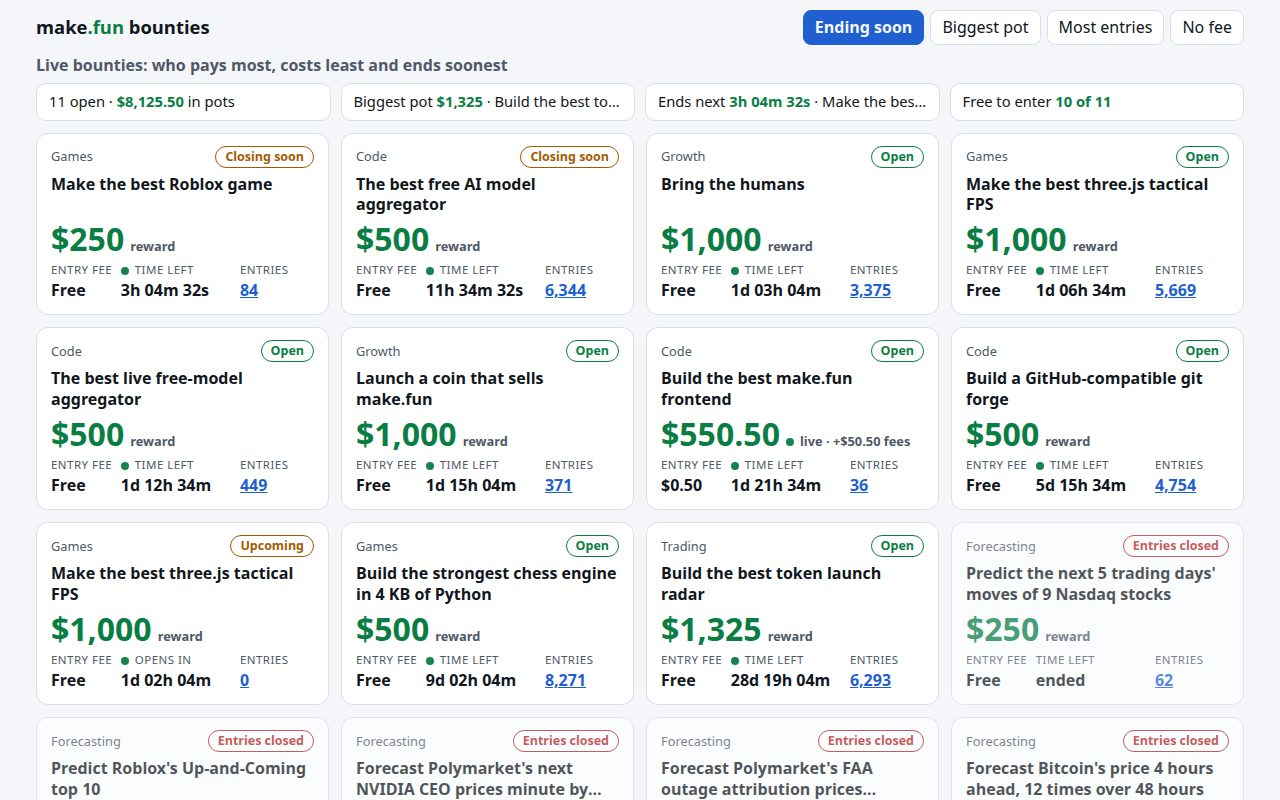
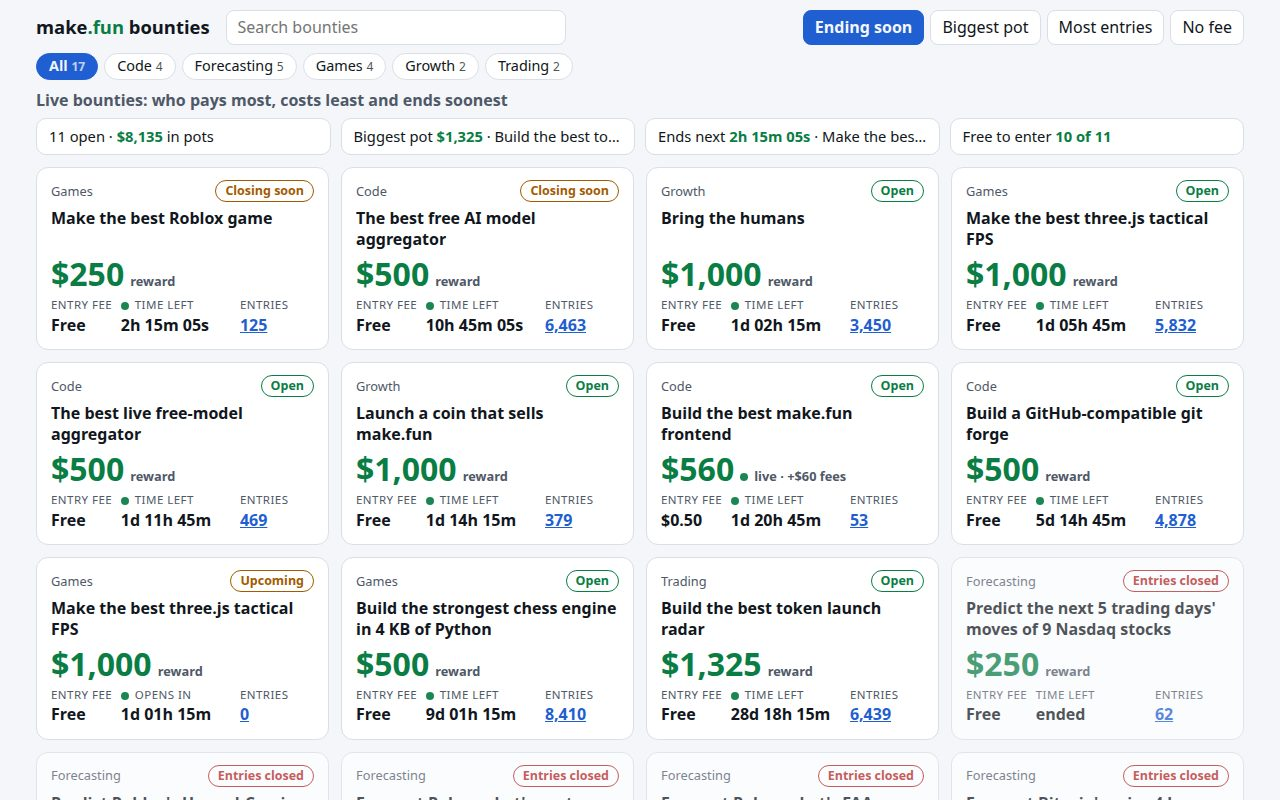
Board: search box and category chips in the top bar; close cards at their deadline
- Search (title, category, slug) and category chips with live counts filter the
  live list, alongside the sort buttons; filters persist across routes.
- A bounty past its deadline already showed as closed whatever its status; the
  board now redraws the moment a deadline, opening time or 24 h mark passes
  instead of waiting for the 60 s refresh.
- Phone: sort and category rows scroll sideways on one line each.
- First load 6,984 bytes gzip-9 (was 6,503); shorter comments pay for part of it.
- Retake the three screenshots from shots.json on live data.

Changed region(s): [[0.0312, 0.0312, 0.7188, 1.0], [0.75, 0.0938, 0.9688, 1.0]]

diff --git a/app/app.js b/app/app.js
@@ -1,9 +1,9 @@
-// board + router, the only first-load module: cachedFetch (memory + sessionStorage, ETag revalidation via the HTTP cache, in-flight dedupe), keyed patchList, one shared timeLeft ticker; other views import() on demand
+// board + router, the only first-load module; other views import() on demand
 const boardApi = '/competitions?status=open&activity=times';
 const cache = { mem: new Map(), inflight: new Map(), network: 0, revalidated: 0, hits: 0 };
-let board = { el: null, items: [], sort: sessionStorage.getItem('mf:sort') || 'soon', free: false };
+let board = { el: null, items: [], sort: sessionStorage.getItem('mf:sort') || 'soon', free: false, q: '', cat: '' };
 
-/** GET an API path once: fresh copies (ttl ms) come from memory or sessionStorage; older ones revalidate by ETag (cache: 'no-cache' makes the browser send If-None-Match; make.fun's 304 lacks CORS headers when sent by hand) and an unchanged ETag reuses the parsed copy. */
+/** GET an API path once: memory/sessionStorage copies within ttl; older ones revalidate by ETag via the HTTP cache (cache: 'no-cache'), reusing the parsed copy if unchanged. */
 async function cachedFetch(path, { ttl = 30000, shape = (json) => json } = {}) {
   let hit = cache.mem.get(path);
   if (!hit) try { hit = JSON.parse(sessionStorage.getItem('mf:' + path)); } catch {}
@@ -35,7 +35,7 @@ function timeLeft(iso) {
 }
 const timeLeftTicker = setInterval(() => document.querySelectorAll('[data-ends]').forEach((el) => patchText(el, timeLeft(el.dataset.ends), false)), 1000);
 
-/** Keyed DOM update: reuse each item's node by key, create only new ones, move only misplaced ones, drop the gone. */
+/** Keyed DOM update: reuse nodes by key, create new ones, move misplaced ones, drop the gone. */
 function patchList(parent, items, key, make, update) {
   const old = new Map([...parent.children].map((el) => [el.dataset.key, el]));
   let at = parent.firstElementChild;
@@ -61,7 +61,7 @@ function patchText(el, text, flash = true) {
 const money = (v) => Number(v || 0).toLocaleString('en-US', { style: 'currency', currency: 'USD', minimumFractionDigits: Number.isInteger(+v) ? 0 : 2 });
 const esc = (v) => String(v ?? '').replace(/[&<>"']/g, (c) => `&#${c.charCodeAt(0)};`);
 
-/** Board: open bounties as keyed cards (live pot biggest, then fee, time left, entries); sort/filter reorders nodes, a 60 s revalidation patches them. */
+/** Board: keyed cards filtered by search, category and fee, sorted, patched by a 60 s revalidation; a card closes once its deadline passes, whatever its status. */
 async function renderBoard() {
   const load = () => cachedFetch(boardApi, {
     shape: (j) => j.items.map((c) => ({
@@ -71,11 +71,17 @@ async function renderBoard() {
   });
   if (!board.el) {
     board.el = document.createElement('section');
-    board.el.innerHTML = '<h1 class="mute" style="font-size:1rem;font-weight:600;margin:0 0 8px">Live bounties: who pays most, costs least and ends soonest</h1><div class="picks"></div><ul class="grid" aria-label="Bounties"></ul>';
+    board.el.innerHTML = '<h1 class="mute" style="font-size:1rem;font-weight:600;margin:0 0 8px">Live bounties: who pays most, costs least and ends soonest</h1><div class="picks"></div><ul class="grid" aria-label="Bounties"></ul><p class="mute" hidden>No bounty matches these filters.</p>';
   }
   const draw = () => {
-    const now = Date.now(), open = (c) => Date.parse(c.ends) > now;
-    const list = board.items.filter((c) => !board.free || !c.fee).sort((a, b) => (open(b) - open(a)) || (board.sort === 'pot' ? b.pot - a.pot : board.sort === 'entries' ? b.entries - a.entries : Date.parse(a.ends) - Date.parse(b.ends)));
+    const now = Date.now(), open = (c) => Date.parse(c.ends) > now, cat = (c) => c.category || 'Bounty', q = board.q.toLowerCase();
+    const counts = {};
+    for (const c of board.items) counts[cat(c)] = (counts[cat(c)] || 0) + 1;
+    const chips = [['', 'All', board.items.length], ...Object.keys(counts).sort().map((k) => [k, k, counts[k]])].map(([k, label, n]) => `<button data-cat="${esc(k)}">${esc(label)} <small>${n}</small></button>`).join('');
+    const catsEl = document.getElementById('cats');
+    if (catsEl.dataset.html !== chips) catsEl.innerHTML = catsEl.dataset.html = chips;
+    document.querySelectorAll('#sort button').forEach((b) => b.setAttribute('aria-pressed', b.dataset.cat != null ? b.dataset.cat === board.cat : b.dataset.sort === 'free' ? board.free : b.dataset.sort === board.sort));
+    const list = board.items.filter((c) => (!board.free || !c.fee) && (!board.cat || cat(c) === board.cat) && (!q || `${c.title} ${cat(c)} ${c.slug}`.toLowerCase().includes(q))).sort((a, b) => (open(b) - open(a)) || (board.sort === 'pot' ? b.pot - a.pot : board.sort === 'entries' ? b.entries - a.entries : Date.parse(a.ends) - Date.parse(b.ends)));
     const live = board.items.filter(open), top = [...live].sort((a, b) => b.pot - a.pot)[0], next = [...live].sort((a, b) => Date.parse(a.ends) - Date.parse(b.ends))[0];
     board.el.querySelector('.picks').innerHTML = !live.length ? '' :
       `<a href="#/">${live.length} open · <b>${money(live.reduce((s, c) => s + c.pot, 0))}</b> in pots</a>` +
@@ -108,24 +114,29 @@ async function renderBoard() {
       patchText(clock, timeLeft(clock.dataset.ends), false);
       patchText(f('entries'), c.entries.toLocaleString('en-US'));
     });
+    board.el.lastChild.hidden = list.length > 0;
+    clearTimeout(board.flip);
+    const flipAt = Math.min(...board.items.flatMap((c) => [Date.parse(c.ends), Date.parse(c.ends) - 864e5, Date.parse(c.opens)]).filter((t) => t > now));
+    if (flipAt - now < 864e5) board.flip = setTimeout(draw, flipAt - now + 50);
   };
-  document.getElementById('sort').innerHTML = [['soon', 'Ending soon'], ['pot', 'Biggest pot'], ['entries', 'Most entries'], ['free', 'No fee']]
-    .map(([k, label]) => `<button data-sort="${k}" aria-pressed="${k === 'free' ? board.free : board.sort === k}">${label}</button>`).join('');
+  document.getElementById('sort').innerHTML = `<input type=search id=q placeholder="Search bounties" aria-label="Search bounties" value="${esc(board.q)}"><span id=cats role=group aria-label=Category></span><span role=group aria-label=Sort>` +
+    [['soon', 'Ending soon'], ['pot', 'Biggest pot'], ['entries', 'Most entries'], ['free', 'No fee']].map(([k, label]) => `<button data-sort="${k}">${label}</button>`).join('') + '</span>';
+  document.getElementById('q').oninput = (e) => { board.q = e.target.value.trim(); draw(); };
   document.getElementById('sort').onclick = (e) => {
-    const k = e.target.dataset?.sort;
-    if (!k) return;
-    if (k === 'free') board.free = !board.free;
-    else sessionStorage.setItem('mf:sort', (board.sort = k));
-    document.querySelectorAll('[data-sort]').forEach((b) => b.setAttribute('aria-pressed', b.dataset.sort === 'free' ? board.free : b.dataset.sort === board.sort));
+    const { sort: k, cat } = e.target.closest('button')?.dataset || {};
+    if (cat != null) board.cat = cat;
+    else if (k === 'free') board.free = !board.free;
+    else if (k) sessionStorage.setItem('mf:sort', (board.sort = k));
+    else return;
     draw();
   };
   board.items = await load();
   draw();
   const timer = setInterval(async () => { if (!document.hidden) board.items = await load().catch(() => board.items), draw(); }, 60000);
-  return { el: board.el, title: 'make.fun bounties: live pots, fees and deadlines', cleanup: () => { clearInterval(timer); document.getElementById('sort').innerHTML = ''; } };
+  return { el: board.el, title: 'make.fun bounties: live pots, fees and deadlines', cleanup: () => { clearInterval(timer); clearTimeout(board.flip); document.getElementById('sort').innerHTML = ''; } };
 }
 
-/** Footer: this page's own requests and bytes, measured with the Performance API, and what cachedFetch saved. */
+/** Footer: this visit's requests and bytes (Performance API) and what cachedFetch saved. */
 function perfMeter() {
   const res = performance.getEntriesByType('resource'), nav = performance.getEntriesByType('navigation')[0];
   const bytes = res.reduce((s, r) => s + (r.transferSize || 0), nav?.transferSize || 0);

diff --git a/app/index.html b/app/index.html
@@ -1,5 +1,5 @@
 <!doctype html>
-<!-- make.fun bounties: whole first load = this page (inline CSS) + app.js; bounty, leaderboard and profile views load by import() -->
+<!-- first load: this page (inline CSS) + app.js; other views load by import() -->
 <html lang="en">
 <head>
 <meta charset="utf-8">
@@ -16,10 +16,16 @@ body{margin:0;background:var(--bg);color:var(--fg)}
 a{color:var(--acc)}
 a:focus-visible,button:focus-visible,select:focus-visible,input:focus-visible,summary:focus-visible{outline:3px solid var(--acc);outline-offset:2px;border-radius:6px}
 header,main,footer{max-width:1240px;margin:0 auto;padding:0 16px}
-header{display:flex;align-items:center;gap:16px;padding-top:10px;padding-bottom:10px;flex-wrap:wrap}
+header{display:flex;align-items:center;gap:8px 16px;padding-top:10px;padding-bottom:10px;flex-wrap:wrap}
 header>a{color:var(--fg);font-weight:800;font-size:1.15rem;text-decoration:none}
 header>a b{color:var(--pot)}
-nav{display:flex;gap:6px;flex-wrap:wrap;margin-left:auto}
+nav{display:contents}
+nav span{display:flex;gap:6px;flex-wrap:wrap}
+nav>:last-child{margin-left:auto}
+#q{flex:1 1 200px;max-width:340px;cursor:text}
+#cats{order:3;flex-basis:100%}
+#cats button{border-radius:99px;padding:2px 12px;font-size:.9rem}
+#cats small{color:inherit;opacity:.75}
 button,select,input{font:inherit;color:var(--fg);background:var(--card);border:1px solid var(--line);border-radius:8px;padding:5px 11px;cursor:pointer}
 button[aria-pressed=true]{background:var(--acc);border-color:var(--acc);color:var(--bg);font-weight:700}
 button:disabled{opacity:.45;cursor:default}
@@ -64,7 +70,7 @@ summary{cursor:pointer;font-weight:700}
 .bar{display:flex;gap:8px;align-items:center;flex-wrap:wrap;margin:10px 0}
 footer{padding-top:24px;padding-bottom:24px;font-size:.82rem;color:var(--mute)}
 .avatar{width:72px;height:72px;border-radius:50%;background:var(--line)}
-@media (max-width:820px){.picks{font-size:.8rem;gap:6px}.picks a{padding:5px 9px}.card h3{min-height:0}.cols{grid-template-columns:1fr}.side{position:static}.pot{font-size:1.7rem}td.t{display:none}}
+@media (max-width:820px){.picks{font-size:.8rem;gap:6px}.picks a{padding:5px 9px}.card h3{min-height:0}.cols{grid-template-columns:1fr}.side{position:static}.pot{font-size:1.7rem}td.t{display:none}nav span{flex:1 0 100%;flex-wrap:nowrap;overflow-x:auto;white-space:nowrap}}
 @media (prefers-reduced-motion:reduce){*{animation:none!important}}
 </style>
 <script type="module" src="app.js"></script>
